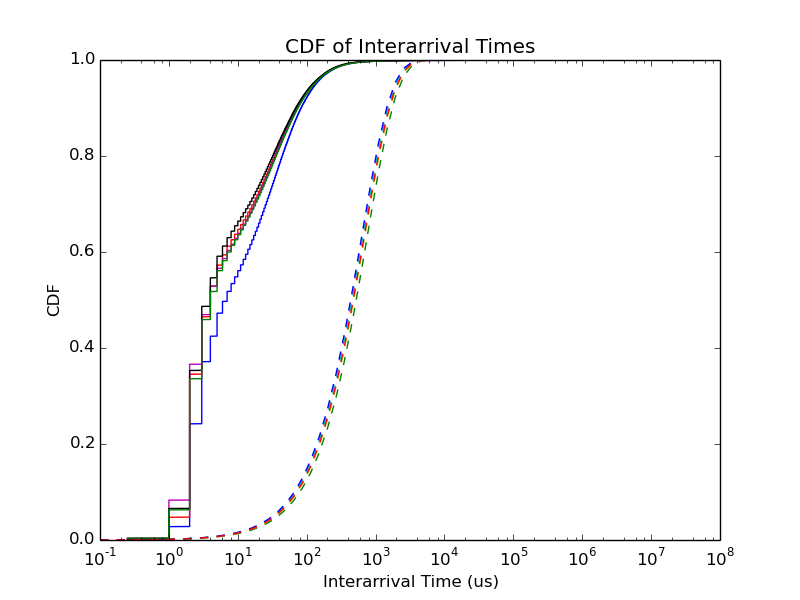
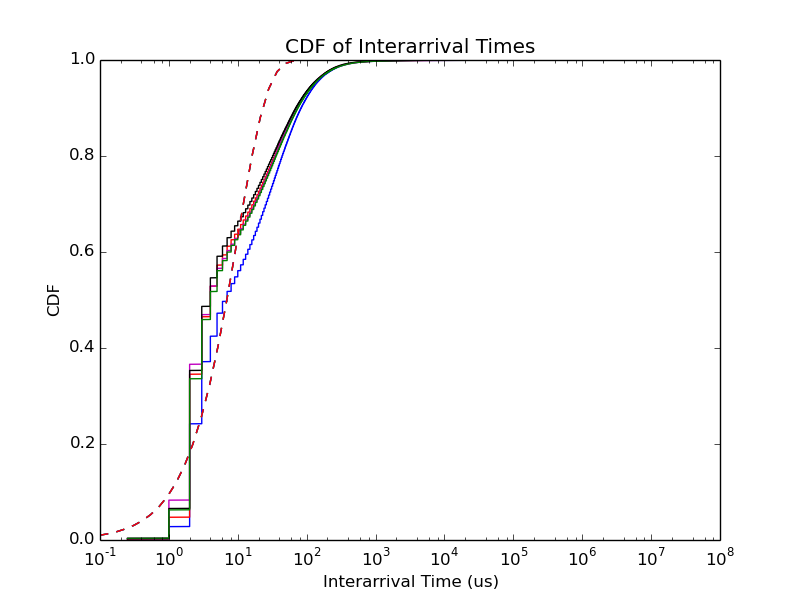
updated graphs with better-fitting exponential

diff --git a/readFlowTrace.py b/readFlowTrace.py
@@ -100,8 +100,8 @@ def sourceInterarrival(flows):
         x, y = cdf(inters)
         plt.semilogx(x, y, label = str(s))
         cmp_x = np.logspace(-1, 5)
-        plt.semilogx(cmp_x, scipy.stats.expon.cdf(cmp_x, scale = np.mean(x)), '--', label = 'Fitted Exponential')
-        print 'K-S Test', scipy.stats.kstest(x, lambda x: scipy.stats.expon.cdf(x, scale = np.mean(x)))
+        plt.semilogx(cmp_x, scipy.stats.expon.cdf(cmp_x, scale = 10), '--', label = 'Fitted Exponential')
+        print 'K-S Test', scipy.stats.kstest(x, lambda x: scipy.stats.expon.cdf(x, scale = 10))
     plt.savefig('comparefit_cdf_src_interarrivals.png')
 
     plt.clf()
